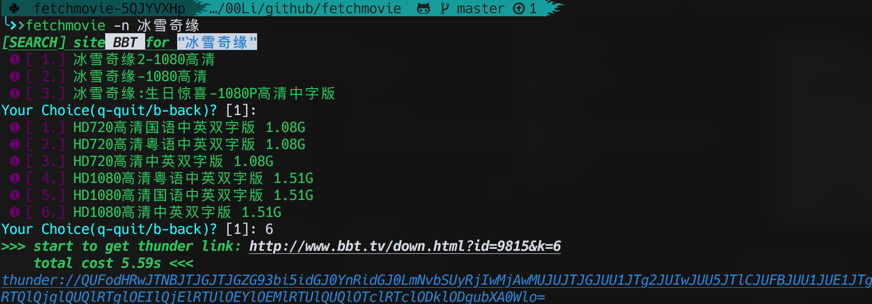
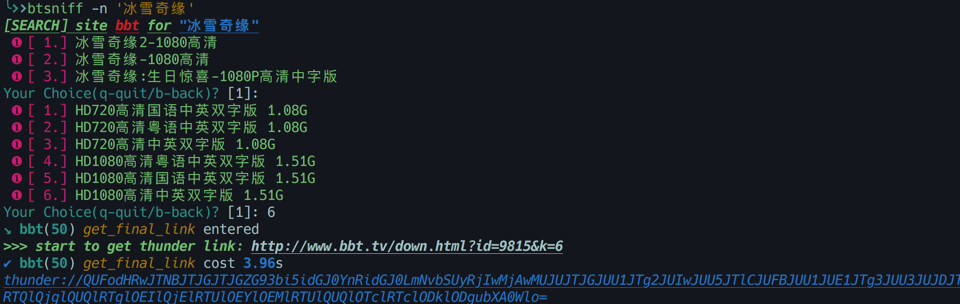
refactor: update readme, slightly change output

Changed region(s): [[0.0, 0.0, 1.0, 1.0]]

diff --git a/btsniff/app.py b/btsniff/app.py
@@ -27,8 +27,9 @@ from btsniff.sites import SITES
 @click.option('--display_img', '-img', is_flag=True, help=fmt_help('display with image', '-img'))
 def run(name, site, display_img, overwrite=False, list_sites=False):
     if list_sites:
+        echo.BIy("Available sites:")
         for i, _site in enumerate(SITES.keys()):
-            print(echo.BIw_(f'site {i}:'), echo.BIg_(f'{_site}'))
+            print(echo.BIm_(f'{_site:>8}'), echo.BIg_(f'[{SITES.get(_site).SiteURL.intro}]'))
         return
     chain = Chain()
     chain.BIUg(f'[SEARCH] site').BIUr(f'{site}').BIUg(f'for').BIUb(f'"{name}"').show()
@@ -39,15 +40,10 @@ def run(name, site, display_img, overwrite=False, list_sites=False):
     copy_to_clipboard(link)
 
 
-def debug_site(site, name):
-    """we can debug a site
-
-    Arguments:
-        site {str} -- site
-        name {str} -- movie name
-    """
+def debug_site(site, name, overwrite=False):
+    """ local only """
     sniffer = SITES[site]
-    sniffer.run(name)
+    sniffer.run(name, overwrite=overwrite)
 
 
 if __name__ == '__main__':

diff --git a/btsniff/__init__.py b/btsniff/__init__.py
@@ -5,5 +5,5 @@ __all__ = [
     'VERSION',
 ]
 
-VERSION = '0.0.1'
+VERSION = '0.0.2'
 HOME_DIR = Path(__file__).parents[1]

diff --git a/README.md b/README.md
@@ -1,14 +1,16 @@
 # btsniff
 
-sniff movies url or torrents. 
+sniff movies url or torrents.
 
 usually there are lot's of ads on these websites, so this will help you with only the bt torrents, just enjoy it.
 
+by default, a cache directory will be created at "/tmp/crawler/" with name of each site. i.e. for site `http://www.bbt.tv` it will be `"/tmp/crawler/www.bbt.tv"`. every searched result page is stored in this folder, so next time you search the same name, you will hit local cached page, but this can be overwritten with `-w --overwrite` parameter.
+
 ## sites supported
 
-- [x] [bbt](https://bbt.tv)
+- [x] [bbt](http://www.bbt.tv)
 - [x] [btdx8](https://www.btdx8.com/)
-- [ ] [dygod](https://www.dy2018.com/)
+- [x] [dygod](https://www.dy2018.com/)
 
 ## install
 
@@ -25,13 +27,23 @@ btsniff -h
 Usage: btsniff [OPTIONS]
 
 Options:
-  -n, --name TEXT      movie name [OPT] -n <name>
+  -n, --name TEXT      movie/actor name [OPT] -n <name>
   -s, --site TEXT      site name [OPT] -s <site_name>
+  -l, --list_sites     list supported sites [OPT] -l
   -w, --overwrite      overwrite local cache [OPT] -w
   -img, --display_img  display with image [OPT] -img
   -h, --help           Show this message and exit.
 ```
 
+### view all available sites
+
+```sh
+btsniff -l
+Available sites:
+     bbt [bt电影天堂: http://www.btbttv.cc/]
+   btdx8 [比特大雄: https://www.btdx8.com/]
+   dygod [电影天堂: https://www.dy2018.com/]
+```
 ### sniff by name
 
 > simple search
